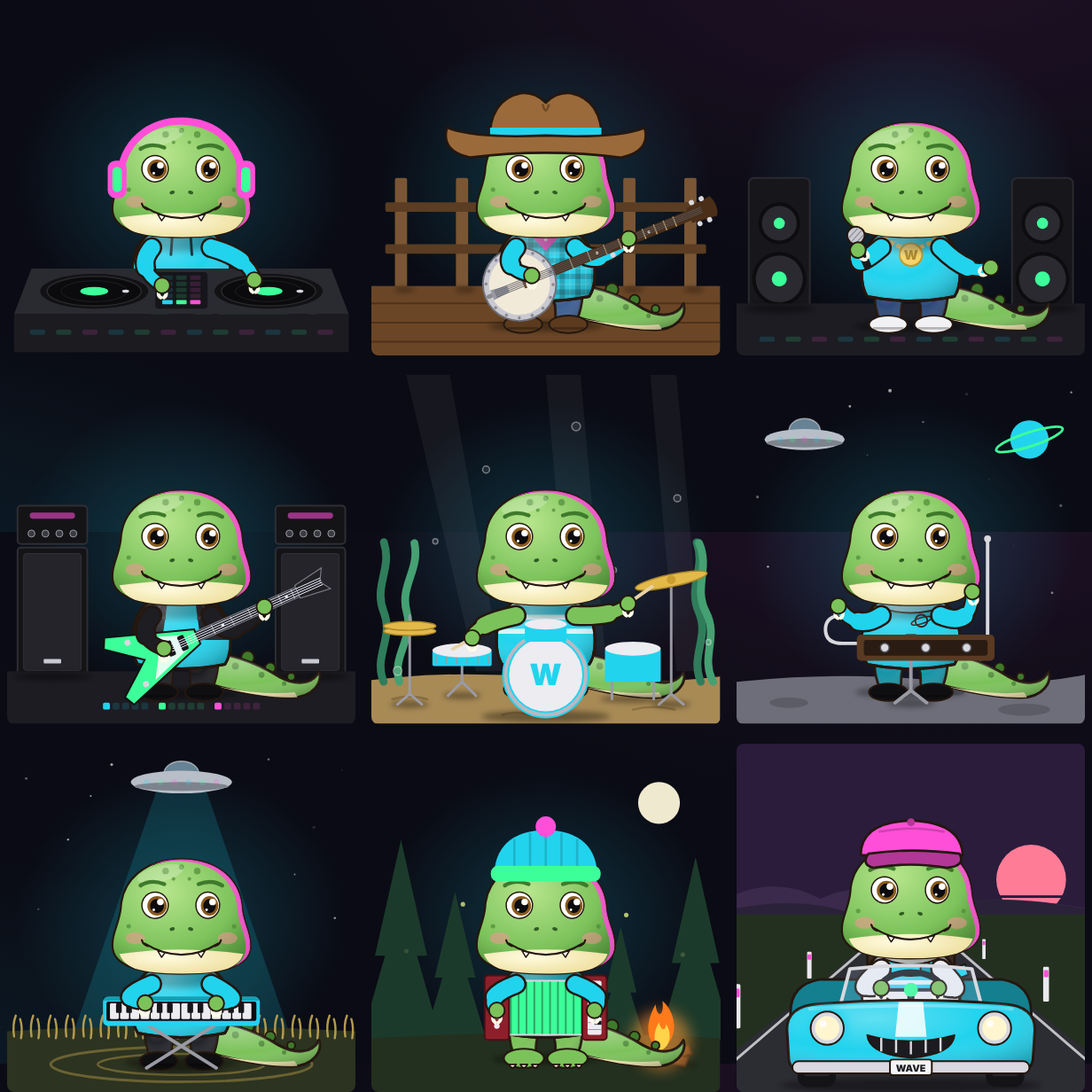
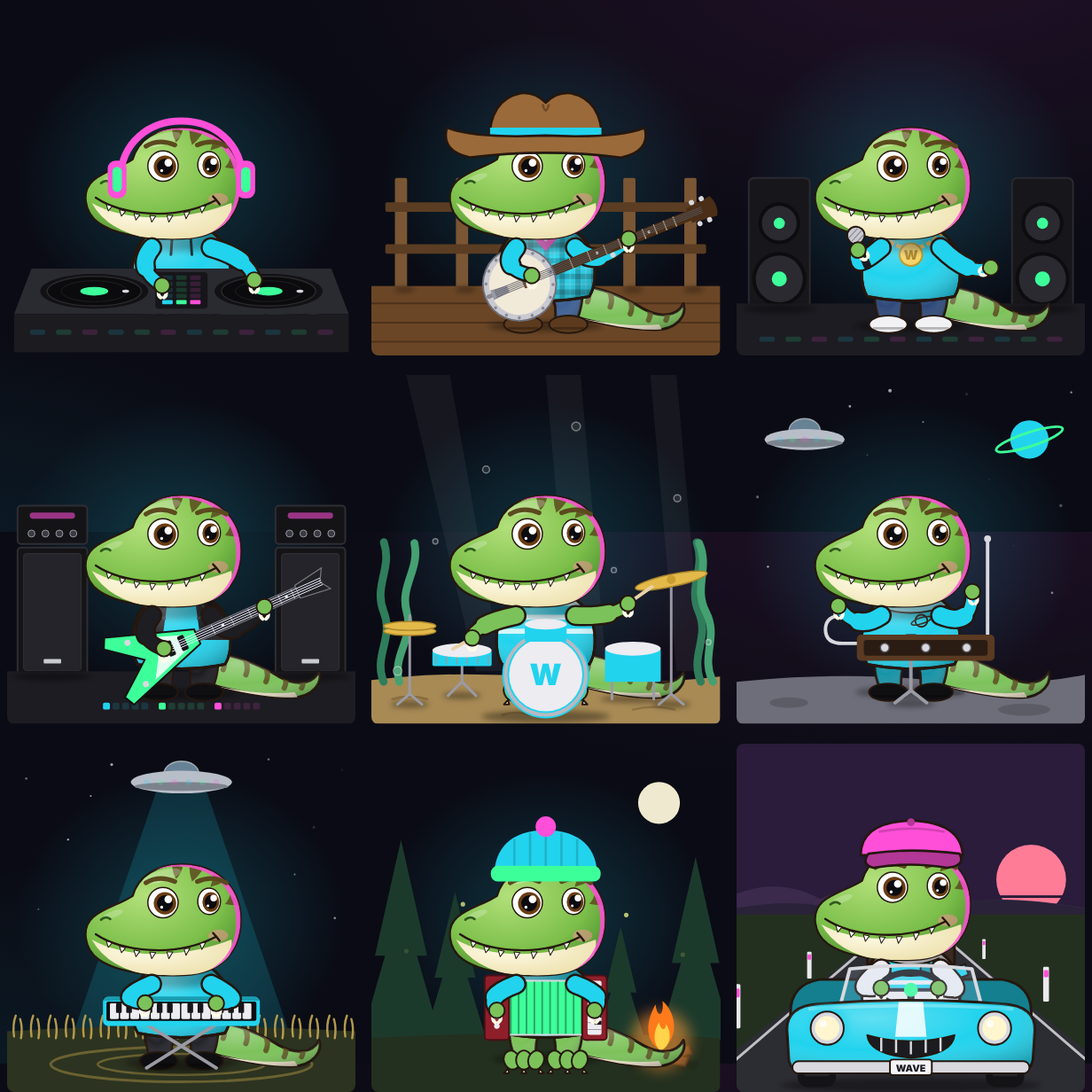
Critters: redraw the owl and the T. rex closer to the reference art
- Owl: big feather tufts with pale vanes, scalloped crown feathers, a cream
  facial disc with pale brows sweeping up to the tufts and a brown wedge
  down to a long orange beak, huge orange eyes with no white, and spotted
  wings with pale claws on the talons
- T. rex: the head turned a little to its right to show a big blunt snout
  with a nostril, dark brown stripes on the crown, big eyes under heavy
  brows, a long grin lined with little pointed teeth over a cream chin; the
  eyes stay centred so glasses fit, and under the hazmat hood the face
  shrinks a little to fit inside it (.trex-face)
- T. rex tail striped on top instead of plates, three-toed clawed feet
- Changelog, docs and screenshots

Claude-Session: https://claude.ai/code/session_014p1Va6ypeQMjbD5xGu2t4r

diff --git a/src/components/critters/faces.tsx b/src/components/critters/faces.tsx
@@ -692,110 +692,133 @@ export function PandaFace() {
   );
 }
 
-/** The owl's left ear tuft (the right is its mirror): a soft pointed tuft of feathers leaning out. */
-const OWL_TUFT = 'M128 140 C 118 116, 112 92, 118 70 C 132 80, 150 94, 160 106 C 154 96, 154 88, 156 82 C 168 94, 176 108, 180 124 Z';
+/** The owl's left ear tuft (the right is its mirror): a big soft feather leaning out from the crown. */
+const OWL_TUFT = 'M150 122 C 128 112, 108 88, 104 58 C 132 64, 160 86, 174 112 Z';
+/** the tuft's pale vane down its middle */
+const OWL_TUFT_IN = 'M150 116 C 134 104, 120 86, 114 68 C 134 76, 152 92, 162 110 Z';
+/** The owl's facial disc: two big pale rounds round the eyes, meeting over the beak, with pale brows sweeping up
+ *  and out to the tufts and a brown wedge between them down to the beak. */
+const OWL_DISC = 'M206 168 C 200 140, 180 124, 156 124 C 134 124, 116 140, 112 164 C 106 202, 132 238, 172 242 C 190 244, 200 240, 206 236 C 212 240, 222 244, 240 242 C 280 238, 306 202, 300 164 C 296 140, 278 124, 256 124 C 232 124, 212 140, 206 168 Z';
+const OWL_BROWS = 'M206 172 C 196 140, 170 118, 128 116 C 150 106, 184 110, 206 136 C 228 110, 262 106, 284 116 C 242 118, 216 140, 206 172 Z';
+
+/** An owl's eye: no white, a big orange iris with a darker rim, a big dark pupil and two shines. */
+function OwlEye({ cx, cy, r }: { cx: number; cy: number; r: number }) {
+  return (
+    <>
+      <circle cx={cx} cy={cy} r={r} fill="url(#ow-iris)" className="ol-thin" />
+      <circle cx={cx} cy={cy} r={r * 0.86} fill="none" stroke="#b4500e" strokeWidth={r * 0.12} opacity="0.6" />
+      <circle cx={cx + 1} cy={cy + 1} r={r * 0.6} fill="#2a1408" />
+      <circle data-shine="" cx={cx + r * 0.28} cy={cy - r * 0.3} r={r * 0.24} fill="#fff" />
+      <circle cx={cx - r * 0.25} cy={cy + r * 0.3} r={r * 0.09} fill="#fff" />
+    </>
+  );
+}
 
 /**
  * An owlet's face, drawn cute and kept clear of famous cartoon owls (no snowy-white post owl, no spectacles,
- * no mortarboard): a round brown head with two pointy feather tufts (`ear-l` / `ear-r`, so the rig wiggles them
- * and the cowboy hat hides them), a pale heart of a facial disc round huge amber eyes, a little orange hooked
- * beak with the singing mouth under it, rosy cheeks and a few feather marks on the crown. The wings are its
- * arms (`FIGURES.owl`, `.species-owl .sleeve`).
+ * no mortarboard): a big round brown head with scalloped crown feathers, two big feather tufts (`ear-l` /
+ * `ear-r`, so the rig wiggles them and the cowboy hat hides them), a cream facial disc with pale brows sweeping
+ * up to the tufts, huge orange eyes, a long orange beak pointing down with the singing mouth under its tip, and
+ * rosy cheeks. The wings are its arms (`FIGURES.owl`, `.species-owl .sleeve`).
  */
 export function OwlFace() {
   return (
-    <Placed cx={206} cy={174} s={0.84}>
+    <Placed cx={206} cy={176} s={0.84}>
       <defs>
-        <Shade id="ow-fur" hi="#c99a6a" mid="#9c6b43" lo="#5e3d22" />
-        <Shade id="ow-disc" hi="#fffaf0" mid="#f6e7c8" lo="#d9c19a" />
-        <Shade id="ow-beak" hi="#ffd27a" lo="#d9822a" />
+        <Shade id="ow-fur" hi="#c08a5a" mid="#94643c" lo="#5a3a20" />
+        <Shade id="ow-disc" hi="#fffaf0" mid="#f6ead2" lo="#dcc6a0" />
+        <Shade id="ow-beak" hi="#ffc35a" lo="#d8661a" />
+        <radialGradient id="ow-iris" cx="0.45" cy="0.4" r="0.6">
+          <stop offset="0.55" stopColor="#ffb52a" />
+          <stop offset="1" stopColor="#e2741a" />
+        </radialGradient>
       </defs>
       <g data-part="ear-l">
         <path d={OWL_TUFT} fill="url(#ow-fur)" className="ol" />
-        <path d="M134 126 C 128 108, 126 94, 128 84" fill="none" stroke="#5e3d22" strokeWidth="2.5" strokeLinecap="round" opacity="0.6" />
+        <path d={OWL_TUFT_IN} fill="#c99c70" />
       </g>
       <g data-part="ear-r">
         <g transform="translate(412 0) scale(-1 1)">
           <path d={OWL_TUFT} fill="url(#ow-fur)" className="ol" />
-          <path d="M134 126 C 128 108, 126 94, 128 84" fill="none" stroke="#5e3d22" strokeWidth="2.5" strokeLinecap="round" opacity="0.6" />
+          <path d={OWL_TUFT_IN} fill="#c99c70" />
         </g>
       </g>
-      <HeadShape id="owl" fill="url(#ow-fur)" d="M206 94 C 270 94, 306 132, 306 178 C 306 226, 266 258, 206 258 C 146 258, 106 226, 106 178 C 106 132, 142 94, 206 94 Z">
-        {/* feather marks on the crown */}
-        <path d="M180 112 l 5 6 l 5 -6 M202 106 l 4 6 l 4 -6 M224 112 l 5 6 l 5 -6 M190 126 l 4 5 l 4 -5 M214 126 l 4 5 l 4 -5" fill="none" stroke="#5e3d22" strokeWidth="2.2" strokeLinecap="round" strokeLinejoin="round" opacity="0.55" />
-        {/* the facial disc: two pale rounds meeting over the beak, like a heart */}
-        <path d="M206 150 C 194 128, 120 124, 114 176 C 110 222, 164 244, 206 228 C 248 244, 302 222, 298 176 C 292 124, 218 128, 206 150 Z" fill="url(#ow-disc)" />
-        <path d="M206 150 C 194 128, 120 124, 114 176 C 110 222, 164 244, 206 228 C 248 244, 302 222, 298 176 C 292 124, 218 128, 206 150 Z" fill="none" stroke="#b98a5a" strokeWidth="2.5" strokeDasharray="1 6" strokeLinecap="round" />
-        <ellipse cx="174" cy="112" rx="34" ry="11" fill="rgb(255 255 255 / 0.2)" transform="rotate(-14 174 112)" />
+      <HeadShape id="owl" fill="url(#ow-fur)" d="M206 96 C 272 96, 310 134, 310 182 C 310 230, 268 262, 206 262 C 144 262, 102 230, 102 182 C 102 134, 140 96, 206 96 Z">
+        {/* scalloped feathers on the crown */}
+        <path d="M168 112 a 10 8 0 0 0 20 0 a 10 8 0 0 0 18 0 a 10 8 0 0 0 18 0 a 10 8 0 0 0 20 0 M178 126 a 10 8 0 0 0 18 0 a 10 8 0 0 0 20 0 a 10 8 0 0 0 18 0" fill="none" stroke="#c99c70" strokeWidth="3" strokeLinecap="round" opacity="0.75" />
+        <path d={OWL_DISC} fill="url(#ow-disc)" />
+        {/* a fringe of feathers round the disc */}
+        <path d={OWL_DISC} fill="none" stroke="#8a5a34" strokeWidth="3" strokeDasharray="2 7" strokeLinecap="round" opacity="0.7" />
+        <path d={OWL_BROWS} fill="#fffaf0" />
+        <path d="M206 170 C 200 150, 194 142, 188 138 L 206 128 L 224 138 C 218 142, 212 150, 206 170 Z" fill="#94643c" />
+        <ellipse cx="172" cy="112" rx="32" ry="10" fill="rgb(255 255 255 / 0.18)" transform="rotate(-14 172 112)" />
       </HeadShape>
       {/* rosy cheeks */}
-      <ellipse cx="136" cy="214" rx="14" ry="8" fill="#ff8f9c" opacity="0.55" />
-      <ellipse cx="276" cy="214" rx="14" ry="8" fill="#ff8f9c" opacity="0.55" />
+      <ellipse cx="132" cy="214" rx="14" ry="8" fill="#ff8f9c" opacity="0.55" />
+      <ellipse cx="280" cy="214" rx="14" ry="8" fill="#ff8f9c" opacity="0.55" />
       <g data-part="eyes">
-        <circle cx="164" cy="178" r="27" fill="#e7a63a" opacity="0.35" />
-        <circle cx="248" cy="178" r="27" fill="#e7a63a" opacity="0.35" />
-        <Eye cx={164} cy={178} r={22} iris="#e09a22" />
-        <Eye cx={248} cy={178} r={22} iris="#e09a22" k={0.9} />
-        <Lashes l={[146, 164]} r={[266, 164]} />
+        <OwlEye cx={160} cy={178} r={27} />
+        <OwlEye cx={252} cy={178} r={27} />
+        <Lashes l={[138, 166]} r={[274, 166]} />
       </g>
-      <Pair l="M140 140 Q 156 132 176 138" mid={206} stroke="#5e3d22" width={4.5} />
-      {/* a little hooked beak, with the closed smile and the singing mouth under its tip */}
-      <path data-part="smile" d="M194 224 Q 206 232 218 224" fill="none" stroke={INK} strokeWidth="2.6" strokeLinecap="round" />
-      <Mouth id="owl" x={206} y={220} w={11} h={22} fill="#5a1a24" line={INK} teeth="none" />
-      <path d="M192 196 Q 206 188 220 196 Q 218 212 206 224 Q 194 212 192 196 Z" fill="url(#ow-beak)" className="ol-thin" />
-      <path d="M198 196 Q 206 192 213 196" fill="none" stroke="rgb(255 255 255 / 0.55)" strokeWidth="2" strokeLinecap="round" />
+      <Pair l="M136 140 Q 152 130 174 136" mid={206} stroke="#5a3a20" width={4.5} />
+      {/* the singing mouth and the closed smile under the tip of a long beak pointing down */}
+      <path data-part="smile" d="M196 236 Q 206 242 216 236" fill="none" stroke={INK} strokeWidth="2.6" strokeLinecap="round" />
+      <Mouth id="owl" x={206} y={228} w={11} h={22} fill="#5a1a24" line={INK} teeth="none" />
+      <path d="M192 180 Q 206 170 220 180 Q 218 210 206 234 Q 194 210 192 180 Z" fill="url(#ow-beak)" className="ol-thin" />
+      <path d="M201 184 Q 206 181 211 184 Q 209 200 206 210 Q 203 200 201 184 Z" fill="rgb(255 255 255 / 0.5)" />
     </Placed>
   );
 }
 
 /**
- * A baby T. rex's face, drawn cute and kept clear of famous cartoon dinosaurs (not purple, no spots on a long
- * neck, no roar): a round green head that widens into a big soft snout, a pale yellow chin, darker green
- * freckles on the crown, big friendly eyes under little brow ridges, two nostrils, rosy cheeks and a wide grin
- * with two tiny teeth peeking down. No ears, so hats sit on the plain round head; the short clawed arms, big
- * feet and tail are on the figure (`FIGURES.trex`).
+ * A baby T. rex's face, drawn cute and kept clear of famous cartoon dinosaurs (not purple, no roar), turned a
+ * little to its right so its big blunt snout shows: a round green crown with dark brown stripes, two big eyes
+ * under heavy striped brows, a nostril at the end of the snout, a long happy grin lined with little pointed teeth
+ * over a cream chin, and a rosy cheek. No ears, so hats sit on the crown; the eyes are centred over the
+ * skeleton's so glasses still fit; under the hazmat hood the face shrinks a little so the snout fits inside it
+ * (`.trex-face`, styles.css). The short clawed arms, big feet and striped tail are on the figure
+ * (`FIGURES.trex`).
  */
 export function TrexFace() {
   return (
-    <Placed cx={206} cy={176} s={0.84}>
+    <Placed cx={214} cy={176} s={0.84}>
       <defs>
-        <Shade id="tx-skin" hi="#b6e58c" mid="#7cc25a" lo="#457f30" />
-        <Shade id="tx-chin" hi="#fffbe0" lo="#ead98e" />
+        <Shade id="tx-skin" hi="#b2e07a" mid="#7cbf4a" lo="#43802a" />
+        <Shade id="tx-chin" hi="#fffbe6" lo="#eadca4" />
       </defs>
-      <HeadShape id="trex" fill="url(#tx-skin)" d="M206 92 C 262 92, 296 124, 298 166 C 300 190, 314 208, 310 230 C 304 258, 260 266, 206 266 C 152 266, 108 258, 102 230 C 98 208, 112 190, 114 166 C 116 124, 150 92, 206 92 Z">
-        {/* the pale chin under the grin */}
-        <path d="M112 236 Q 206 222 300 236 Q 290 268 206 270 Q 122 268 112 236 Z" fill="url(#tx-chin)" />
-        {/* freckles on the crown */}
-        <g fill="#4f8c38" opacity="0.7">
-          <circle cx="182" cy="110" r="5" />
-          <circle cx="206" cy="104" r="4" />
-          <circle cx="230" cy="110" r="5" />
-          <circle cx="194" cy="122" r="2.8" />
-          <circle cx="218" cy="122" r="2.8" />
-          <circle cx="126" cy="194" r="3.4" />
-          <circle cx="286" cy="194" r="3.4" />
+      <g className="trex-face">
+      <HeadShape id="trex" fill="url(#tx-skin)" d="M214 100 C 270 100, 304 136, 304 184 C 304 232, 274 266, 218 268 C 170 270, 116 264, 88 244 C 66 228, 62 196, 80 180 C 96 166, 122 160, 140 148 C 148 118, 176 100, 214 100 Z">
+        {/* the cream chin under the grin */}
+        <path d="M78 214 C 120 238, 200 248, 290 214 Q 296 266 214 272 Q 110 272 78 214 Z" fill="url(#tx-chin)" />
+        {/* dark brown stripes on the crown and the back of the head */}
+        <g fill="#5b4a1e" opacity="0.85">
+          <path d="M226 104 Q 238 102 246 108 Q 238 120 230 126 Q 226 114 226 104 Z" />
+          <path d="M262 114 Q 274 118 280 126 Q 268 132 258 134 Q 262 124 262 114 Z" />
+          <path d="M288 146 Q 298 152 300 162 Q 288 162 280 160 Q 286 154 288 146 Z" />
+          <path d="M200 102 Q 210 101 216 104 Q 212 116 206 122 Q 200 112 200 102 Z" />
         </g>
-        <ellipse cx="174" cy="114" rx="36" ry="12" fill="rgb(255 255 255 / 0.22)" transform="rotate(-14 174 114)" />
+        <ellipse cx="184" cy="118" rx="30" ry="9" fill="rgb(255 255 255 / 0.25)" transform="rotate(-16 184 118)" />
+        <ellipse cx="110" cy="176" rx="16" ry="5" fill="rgb(255 255 255 / 0.22)" transform="rotate(-20 110 176)" />
       </HeadShape>
-      {/* rosy cheeks */}
-      <ellipse cx="136" cy="212" rx="15" ry="9" fill="#ff8f9c" opacity="0.5" />
-      <ellipse cx="276" cy="212" rx="15" ry="9" fill="#ff8f9c" opacity="0.5" />
+      {/* rosy cheek */}
+      <ellipse cx="270" cy="208" rx="15" ry="9" fill="#ff8f9c" opacity="0.5" />
       <g data-part="eyes">
-        <Eye cx={166} cy={162} r={20} iris="#8a5a1c" />
-        <Eye cx={246} cy={162} r={20} iris="#8a5a1c" k={0.9} />
-        <Lashes l={[149, 150]} r={[262, 150]} />
+        <Eye cx={186} cy={158} r={23} iris="#6a3c12" />
+        <Eye cx={256} cy={156} r={20} iris="#6a3c12" k={0.86} />
+        <Lashes l={[166, 146]} r={[273, 144]} s={0.95} />
       </g>
-      {/* little brow ridges */}
-      <Pair l="M144 132 Q 160 122 180 130" mid={206} stroke="#3f7a2c" width={6} />
-      {/* nostrils on the snout */}
-      <ellipse cx="192" cy="198" rx="4" ry="2.6" fill="#2f5e22" transform="rotate(-18 192 198)" />
-      <ellipse cx="220" cy="198" rx="4" ry="2.6" fill="#2f5e22" transform="rotate(18 220 198)" />
-      {/* a wide grin with two tiny teeth peeking down at the corners */}
+      {/* heavy little brows, striped dark brown */}
+      <Pair l="M160 128 Q 180 116 204 126" mid={221} stroke="#5b4a1e" width={7} />
+      {/* the nostril at the end of the snout */}
+      <path d="M92 184 q 7 -6 14 -1" fill="none" stroke="#2f5a1c" strokeWidth="3.6" strokeLinecap="round" />
+      {/* a long happy grin from the snout to the cheek, lined with little pointed teeth */}
       <g data-part="smile">
-        <path d="M150 220 Q 206 254 262 220 M146 215 Q 148 222 155 224 M266 215 Q 264 222 257 224" fill="none" stroke={INK} strokeWidth="3" strokeLinecap="round" />
-        <path d="M170 231 L 176 241 L 181 234 Z M231 234 L 236 241 L 242 231 Z" fill="#fff" className="ol-thin" />
+        <path d="M84 206 C 120 230, 200 244, 266 210 M262 204 Q 268 210 272 216" fill="none" stroke={INK} strokeWidth="3.2" strokeLinecap="round" />
+        <path d="M100 216 l 3 10 l 6 -7 Z M120 224 l 3 10 l 6 -7 Z M142 230 l 3 10 l 6 -8 Z M166 233 l 3 10 l 6 -9 Z M192 233 l 3 10 l 6 -10 Z M218 228 l 3 10 l 6 -11 Z M242 220 l 3 9 l 6 -11 Z" fill="#fff" stroke={INK} strokeWidth="1.4" strokeLinejoin="round" />
       </g>
-      <Mouth id="trex" x={206} y={224} w={24} h={32} fill="#5a1a24" line={INK} />
+      <Mouth id="trex" x={176} y={226} w={34} h={34} fill="#5a1a24" line={INK} teeth="rows" />
+      </g>
     </Placed>
   );
 }

diff --git a/src/components/critters/bodies.tsx b/src/components/critters/bodies.tsx
@@ -608,14 +608,16 @@ const owl: Figure = {
   ),
 };
 
-/** A T. rex's foot: a broad round foot with three pale claws. */
+/** A T. rex's foot: three chunky toes, each with a pale claw. */
 function DinoFoot({ at, right }: { at: P; right?: boolean }) {
   const [x, y] = at;
   const foot = (
     <g>
-      <ellipse cx={x} cy={y} rx={23} ry={11} className="bare ol-thin" />
-      {[-13, 0, 13].map((dx) => (
-        <path key={dx} d={`M${x + dx - 4} ${y + 7} Q ${x + dx} ${y + 15} ${x + dx + 4} ${y + 7} Z`} className="dino-claw ol-thin" />
+      {[-14, 0, 14].map((dx) => (
+        <g key={dx}>
+          <path d={`M${x + dx * 1.3} ${y + 12} l ${dx * 0.12 - 3} 5 l 6 0 Z`} className="dino-claw ol-thin" />
+          <ellipse cx={x + dx} cy={y + 2} rx={9} ry={11} transform={`rotate(${dx * 1.4} ${x + dx} ${y + 2})`} className="bare ol-thin" />
+        </g>
       ))}
     </g>
   );
@@ -626,7 +628,7 @@ const TREX_TAIL = 'M214 318 C 250 316, 286 330, 312 346 C 330 356, 350 356, 358 
 
 /**
  * T. rex: a sturdy pear of a top on big strong thighs, broad three-clawed feet (or the act's shoes) and a thick
- * tail sweeping out behind to the right along the ground with a row of little rounded plates. Its arms are short and thin, with a
+ * tail sweeping out behind to the right along the ground, striped dark brown on top with a cream underside. Its arms are short and thin, with a
  * plump upper arm, a skinny forearm bending at the elbow and two little claws on each hand (`fore`, `hand`),
  * set high and close on the chest; they still reach the instruments.
  */
@@ -649,15 +651,10 @@ const trex: Figure = {
             <path d={TREX_TAIL} />
           </clipPath>
         </defs>
-        {[[248, 320], [276, 328], [302, 340], [326, 350]].map(([x, y], i) => (
-          <circle key={x} cx={x} cy={y - 4} r={9 - i * 1.5} className="dino-plate ol-thin" />
-        ))}
         <path d={TREX_TAIL} className="bare ol" />
         <g clipPath="url(#critter-trex-tail)">
           <path d="M214 352 C 252 360, 292 368, 330 364 L 340 380 L 214 380 Z" className="dino-belly" />
-          <circle cx="262" cy="334" r="4" className="dino-spot" />
-          <circle cx="292" cy="344" r="3.4" className="dino-spot" />
-          <circle cx="318" cy="354" r="2.6" className="dino-spot" />
+          <path d="M246 318 q 6 10 2 20 M272 324 q 6 10 2 20 M296 334 q 5 9 1 18 M318 344 q 4 8 0 15 M338 348 q 3 6 0 11" className="dino-stripe" strokeWidth="6" strokeLinecap="round" fill="none" />
         </g>
         <path d={TREX_TAIL} fill="url(#critter-vinyl)" />
       </Pivot>

diff --git a/src/styles.css b/src/styles.css
@@ -1627,18 +1627,19 @@ html.tv ::-webkit-scrollbar { width: 0; height: 0; }
    talons and a fan of tail feathers */
 .species-owl { --skin: #9c6b43; --skin-dark: #5e3d22; --belly: #f6e7c8; }
 .critter.species-owl .sleeve { stroke: var(--skin); }
-.critter .wing-bars { stroke: #6e4a2c; opacity: 0.55; }
+.critter .wing-bars { stroke: #5a3a20; opacity: 0.6; }
 .critter .wing-tip { fill: var(--skin-dark); }
 .critter .owl-tail { fill: #7a5232; }
 .critter .talon { fill: #f2a33a; }
-.critter .claw-tip { stroke: #3a2614; fill: none; }
-/* the T. rex: leaf green with a pale yellow belly, little rounded plates down its tail, pale claws */
-.species-trex { --skin: #7cc25a; --skin-dark: #3f7a2c; --belly: #f6ebb4; }
-.critter .dino-belly { fill: #f6ebb4; }
-.critter .dino-spot { fill: #4f8c38; }
-.critter .dino-plate { fill: #3f7a2c; }
+.critter .claw-tip { stroke: #e9e2d4; fill: none; }
+/* the T. rex: leaf green with a cream belly, dark brown stripes down its tail, pale claws */
+.species-trex { --skin: #7cc25a; --skin-dark: #3f7a2c; --belly: #f4ead0; }
+.critter .dino-belly { fill: #f4ead0; }
+.critter .dino-stripe { stroke: #5b4a1e; opacity: 0.85; }
 .critter .dino-claw { fill: #fffbe8; }
 .critter .hand-claw { stroke: #fffbe8; }
+/* its snout would poke out of the hazmat hood: the face shrinks a little and moves over inside it */
+:root[data-skin-group='nuclear'] .critter .trex-face { transform: translate(14px, 4px) scale(0.86); transform-origin: 214px 180px; }
 /* singing faces (face.ts, rig.ts): the mouth shapes scale open from their top edge, brows, whiskers, ears and
    eye shines move about their own box, so the rig can write plain CSS transforms on them */
 .critter [data-part='yawn'] { transform-box: fill-box; transform-origin: 50% 0; }

diff --git a/src/components/critters/parts.tsx b/src/components/critters/parts.tsx
@@ -400,10 +400,10 @@ export function Arm({
         <path className="limb-outline" d={g.fore} fill="none" strokeWidth={g.foreW + 5} strokeLinecap="round" />
       </g>
       <path className="sleeve" d={g.upper} fill="none" strokeWidth={g.arm} strokeLinecap="round" />
-      {g.hand === 'wing' && <path className="wing-bars" d={g.upper} fill="none" strokeWidth={g.arm * 0.55} strokeDasharray="3 8" />}
+      {g.hand === 'wing' && <path className="wing-bars" d={g.upper} fill="none" strokeWidth={g.arm * 0.3} strokeDasharray="0.1 9" strokeLinecap="round" />}
       <g data-part={`${part}-fore`} data-elbow={g.elbow} data-hand={`${g.hx} ${g.hy}`}>
         <path className="sleeve" d={g.fore} fill="none" strokeWidth={g.foreW} strokeLinecap="round" />
-        {g.hand === 'wing' && <path className="wing-bars" d={g.fore} fill="none" strokeWidth={g.foreW * 0.55} strokeDasharray="3 8" />}
+        {g.hand === 'wing' && <path className="wing-bars" d={g.fore} fill="none" strokeWidth={g.foreW * 0.3} strokeDasharray="0.1 9" strokeLinecap="round" />}
       </g>
       <g data-part={`${part}-paw`}>
         {typeof children === 'function' ? children([Number(g.hx), Number(g.hy)]) : <g transform={g.held}>{children}</g>}

diff --git a/src/components/critters/species.tsx b/src/components/critters/species.tsx
@@ -59,6 +59,6 @@ export const SPECIES: SpeciesInfo[] = [
   { id: 'tiger', noun: 'tiger', label: 'Tiger', Face: TigerFace, figure: FIGURES.tiger, fit: { eyeY: 176, eyes: [1.28, 1.2], mask: 10, bow: [170, 116, -20] } },
   { id: 'lion', noun: 'lion', label: 'Lion', Face: LionFace, figure: FIGURES.lion, fit: { eyeY: 174, eyes: [1.28, 1.2], mask: 10, bow: [170, 116, -20] } },
   { id: 'panda', noun: 'panda', label: 'Panda', Face: PandaFace, figure: FIGURES.panda, fit: { eyeY: 176, eyes: [1.36, 1.2], mask: 10, bow: [166, 114, -20] } },
-  { id: 'owl', noun: 'owl', label: 'Owl', Face: OwlFace, figure: FIGURES.owl, fit: { eyeY: 178, eyes: [1.42, 1.32], mask: 14, bow: [166, 116, -20] } },
-  { id: 'trex', noun: 'T. rex', label: 'T. rex', Face: TrexFace, figure: FIGURES.trex, fit: { eyeY: 166, eyes: [1.3, 1.22], mask: 16, bow: [168, 114, -20] } },
+  { id: 'owl', noun: 'owl', label: 'Owl', Face: OwlFace, figure: FIGURES.owl, fit: { eyeY: 180, eyes: [1.52, 1.4], mask: 18, bow: [166, 118, -20] } },
+  { id: 'trex', noun: 'T. rex', label: 'T. rex', Face: TrexFace, figure: FIGURES.trex, fit: { eyeY: 164, eyes: [1.38, 1.32], mask: 22, bow: [176, 116, -20] } },
 ];

diff --git a/CHANGELOG.md b/CHANGELOG.md
@@ -2,14 +2,15 @@
 
 ## Unreleased
 - **An owl and a T. rex.** The thirteenth and fourteenth critters, drawn cute. The owlet is round and brown with
-  two pointy ear tufts, a pale heart of a face round huge amber eyes, a little orange hooked beak and rosy cheeks, on
-  a plump figure with orange talons and a fan of tail feathers. Its wings are its arms: bare, barred like feathers,
-  with a feathered tip for a hand. The baby T. rex is leaf green with a big soft snout, a pale yellow chin, freckles,
-  little brow ridges and a wide grin with two tiny teeth, on big strong legs with three-clawed feet and a thick tail
-  sweeping along the ground with a row of little plates. Its arms are short and thin: a plump upper arm, a skinny
-  forearm bending at the elbow and two little claws on each hand, and they still reach every instrument. Both play
-  all nine acts (the Driver too) as a boy or a girl, with the holiday hats and themed outfits; the owl's tufts tuck
-  under the cowboy hat like the bears' ears (`OwlFace` and `TrexFace` in `faces.tsx`, `FIGURES.owl` and
+  scalloped crown feathers and two big feather tufts, a cream face with pale brows sweeping up to the tufts, huge
+  orange eyes, a long orange beak and rosy cheeks, on a plump figure with orange talons and a fan of tail feathers.
+  Its wings are its arms: bare and spotted, with a feathered tip for a hand. The baby T. rex is leaf green, its head
+  turned a little to show off a big blunt snout, with dark brown stripes on its crown, big eyes under heavy brows and
+  a long happy grin lined with little pointed teeth over a cream chin, on big strong legs with three-toed clawed feet
+  and a thick tail sweeping along the ground, striped on top. Its arms are short and thin: a plump upper arm, a
+  skinny forearm bending at the elbow and two little claws on each hand, and they still reach every instrument. Both
+  play all nine acts (the Driver too) as a boy or a girl, with the holiday hats and themed outfits; the owl's tufts
+  tuck under the cowboy hat like the bears' ears (`OwlFace` and `TrexFace` in `faces.tsx`, `FIGURES.owl` and
   `FIGURES.trex` in `bodies.tsx`, a figure's `fore` and `hand` in `Arm`, `parts.tsx`).
 - **Wrong lyrics? Pick the right ones.** Under the lyrics in Now Playing, **Wrong lyrics?** lists the other LRCLIB
   entries for the song (name, artist, album, length and the first lines, the likeliest first), searches LRCLIB with

diff --git a/docs/USER-GUIDE.md b/docs/USER-GUIDE.md
@@ -496,8 +496,8 @@ alien are all possible.
 | **Elephant** | A soft grey calf with big round pink-lined ears that stick out either side of any hat and flap to the beat, a trunk sweeping out to one side over a wide smile |
 | **Tiger** | An orange cub with bold black stripes, white cheeks, green eyes, a pink nose and a striped tail |
 | **Lion** | A golden cub in a russet mane (the girl is a lioness, without one), with a cream muzzle and a tufted tail |
-| **Owl** | A round brown owlet with pointy ear tufts, a pale heart-shaped face round huge amber eyes and a little orange beak; its wings are its arms, and it stands on orange talons |
-| **T. rex** | A leaf-green baby T. rex with a big soft snout, freckles and a wide grin with two tiny teeth, short thin arms with little claws, big clawed feet and a thick tail |
+| **Owl** | A round brown owlet with big feather tufts, a cream face with pale brows, huge orange eyes and a long orange beak; its spotted wings are its arms, and it stands on orange talons |
+| **T. rex** | A leaf-green baby T. rex with its head turned to show a big blunt snout, brown stripes, big eyes and a long grin full of little teeth, short thin arms with little claws, three-toed feet and a thick striped tail |
 | **Panda** | A cream-white cub with round black ears, black teardrop patches round big brown eyes, a button nose and rosy cheeks, with black arms and legs and a white puff of a tail |
 
 <img src="screenshots/critter-moose.png" alt="The moose in all eight acts: DJ in headphones, Country in a cowboy hat with its antlers either side of the crown, Rapper, Rocker, Drummer, Theremin, Synth and Accordion in a beanie" width="90%">

diff --git a/docs/CRITTERS-ROADMAP.md b/docs/CRITTERS-ROADMAP.md
@@ -137,11 +137,13 @@ the asset work and a risk on low-end phones and the iOS WebView.
 - An owl and a T. rex (November 2026), drawn cute and kept clear of famous cartoon ones (no snowy post owl,
   spectacles or mortarboard; no purple dinosaur). The owl's ear tufts are `ear-l` / `ear-r` like the bears' ears,
   so the rig wiggles them and the cowboy hat hides them. Two optional `Figure` fields shape the arms (`Arm` in
-  parts.tsx): `hand: 'wing'` bars the owl's bare sleeves like feathers (`.wing-bars`, `.species-owl .sleeve`) and
+  parts.tsx): `hand: 'wing'` spots the owl's bare sleeves like feathers (`.wing-bars`, `.species-owl .sleeve`) and
   fans a feathered tip under the hand, and the T. rex's `fore` makes the forearm thinner than the upper arm, so
   the short arm reads as bending at a little elbow, with `hand: 'claws'` adding two claws. Its shoulders sit high
   and close on the chest, but its `reach` is the usual, so its hands still land on every instrument. The T. rex
-  tail sweeps along the ground to the right behind the legs, with little plates (`.dino-plate`).
+  tail sweeps along the ground to the right behind the legs, striped on top (`.dino-stripe`). Its head is turned a
+  little to its right so the snout shows, like the elephant's trunk it is off-centre, but the eyes stay centred over
+  the skeleton's so glasses and visors still fit.
 - A sasquatch was drawn and then put on hold. Its face and figure are in git history (commit
   f284a5b, `SasquatchFace` and `FIGURES.sasquatch`) if it comes back.
 
